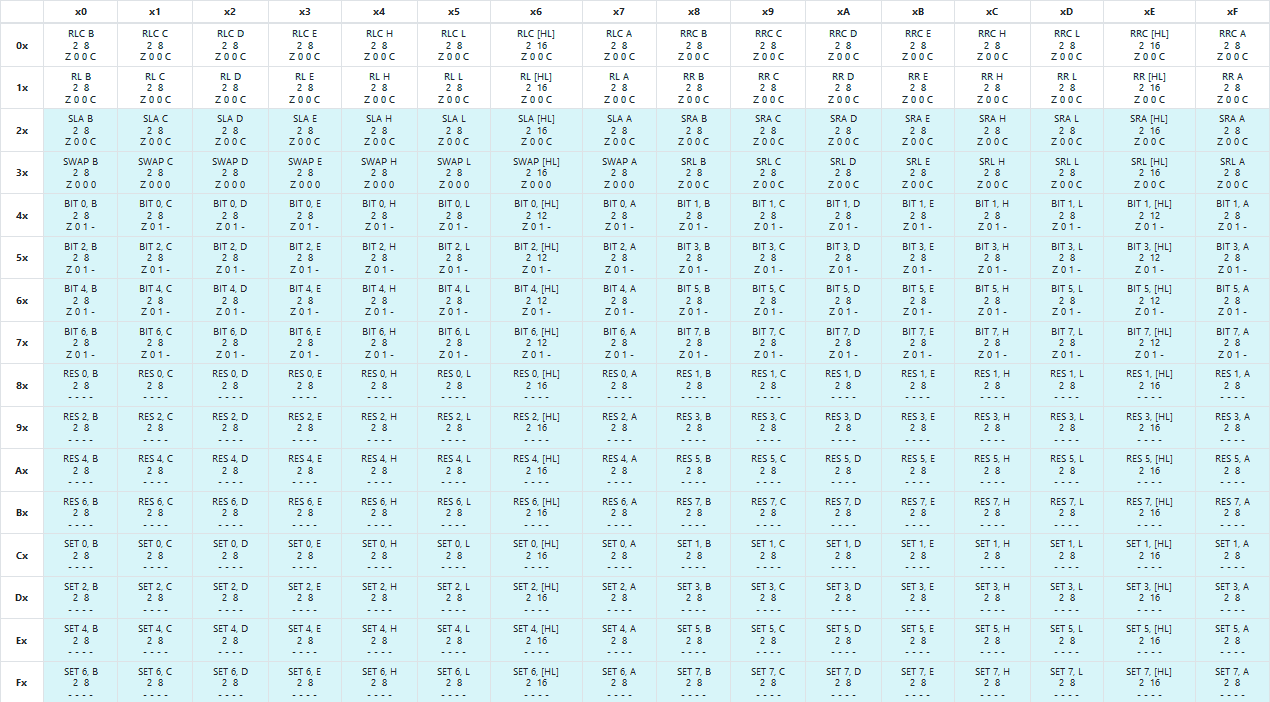
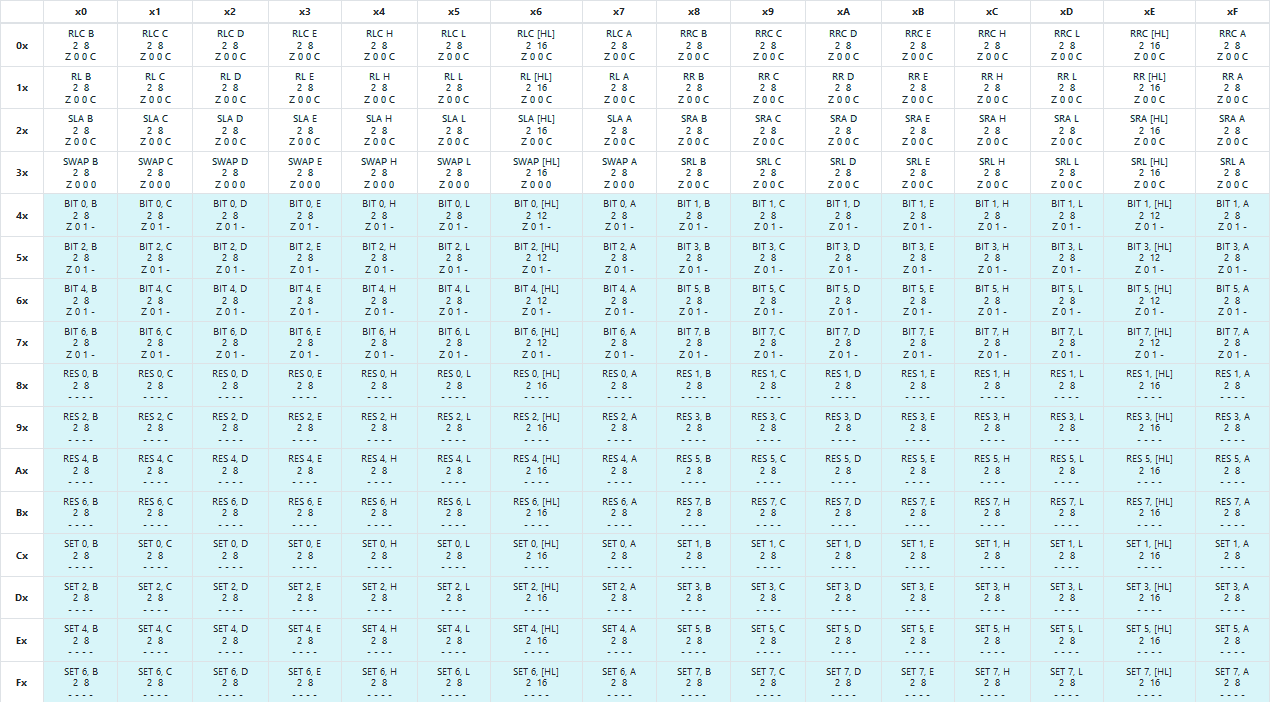
Implement prefixed instructions SLA r8; SRA r8; SWAP r8; SRL r8; update descriptions for rotate instructions

Changed region(s): [[0.0307, 0.1496, 1.0, 0.2991]]

diff --git a/src/gb/cpu/instructions.rs b/src/gb/cpu/instructions.rs
@@ -170,6 +170,14 @@ lazy_static!{
 		Instruction::new(vec![0x10, 0x11, 0x12, 0x13, 0x14, 0x15, 0x16, 0x17], 8, "RL r8", RL_RR_R8),
 		Instruction::new(vec![0x18, 0x19, 0x1A, 0x1B, 0x1C, 0x1D, 0x1E, 0x1F], 8, "RR r8", RL_RR_R8),
 
+		Instruction::new(vec![0x20, 0x21, 0x22, 0x23, 0x24, 0x25, 0x26, 0x27], 8, "SLA r8", SLA_SRA_R8),
+		Instruction::new(vec![0x28, 0x29, 0x2A, 0x2B, 0x2C, 0x2D, 0x2E, 0x2F], 8, "SRA r8", SLA_SRA_R8),
+
+		Instruction::new(vec![0x30, 0x31, 0x32, 0x33, 0x34, 0x35, 0x36, 0x37], 8, "SWAP r8", SWAP_R8),
+		Instruction::new(vec![0x38, 0x39, 0x3A, 0x3B, 0x3C, 0x3D, 0x3E, 0x3F], 8, "SRL r8", SRL_R8),
+
+
+
 	];
 
 }
@@ -1215,7 +1223,7 @@ fn ADD_HL_R16(cpu: &mut CPU, opcode: u8, cycles: &mut u16) {
 
 MNEMONIC: RLCA, RRCA
 OPCODES: 0x07, 0x0F
-DESC: Shifts the A register to the left. The carry bit is set to the shifted out bit
+DESC: Rotates the A register to the left / right. The carry bit is set to the shifted out bit
 FLAGS: 0 0 0 C
 
 */
@@ -1247,7 +1255,7 @@ fn RLCA_RRCA(cpu: &mut CPU, opcode: u8, cycles: &mut u16) {
 
 MNEMONIC: RLA, RRA
 OPCODES: 0x17, 0x1F
-DESC: Shifts the A register to the left / right. Wraps around to the carry bit, then carry bit is set to the shifted out bit.
+DESC: Rotates the A register to the left / right. Wraps around to the carry bit, then carry bit is set to the shifted out bit.
 FLAGS: 0 0 0 C
 
 */
@@ -1323,6 +1331,7 @@ fn RLC_RRC_R8(cpu: &mut CPU, opcode: u8, cycles: &mut u16) {
 
 	cpu.registers.set_8bit_reg(Register8Bit::F, 0);
 	cpu.registers.set_flag(Flag::C, carry);
+	cpu.registers.set_flag(Flag::Z, new_value == 0);
 
 	cpu.pc += 1;
 }
@@ -1369,4 +1378,103 @@ fn RL_RR_R8(cpu: &mut CPU, opcode: u8, cycles: &mut u16) {
 
 	cpu.pc += 1;
 
+}
+
+/*
+
+MNEMONIC: SLA r8 / SRA r8
+OPCODES: 0x2(0-7) / 0x2(8-F)
+DESC: Shifts left / right into the carry flag
+FLAGS: Z 0 0 C
+
+*/
+fn SLA_SRA_R8(cpu: &mut CPU, opcode: u8, cycles: &mut u16) {
+
+	let (new_value, carry): (u8, bool);
+
+	let r8 = Register8Bit::from_r8(opcode & 0x7);
+
+	let old_value = cpu.get_8bit_reg(r8);
+
+	if r8 == Register8Bit::HL {
+		*cycles = 16;
+	}
+
+	if opcode >> 3 == 1 {
+		// RRC
+		(new_value, _) = cpu.registers.get_8bit_reg(r8).overflowing_shr(1);
+		carry = (old_value & 0x80) >> 7 == 1;
+	} else {
+		//RLC
+		(new_value, _) = cpu.registers.get_8bit_reg(r8).overflowing_shl(1);
+		carry = old_value & 1 == 1;
+	}
+
+	//? Arithmetic shifts preserve the sign bit (bit 7) (https://open4tech.com/wp-content/uploads/2016/11/Arithmetic_Shift.jpg)
+	cpu.registers.set_8bit_reg(Register8Bit::A, new_value | (old_value & 0x80));
+
+	cpu.registers.set_8bit_reg(Register8Bit::F, 0);
+	cpu.registers.set_flag(Flag::C, carry);
+	cpu.registers.set_flag(Flag::Z, new_value == 0);
+
+	cpu.pc += 1;
+
+}
+
+/*
+
+MNEMONIC: SWAP r8
+OPCODES: 0x3(0-7)
+DESC: Swaps the lower four bits of r8 with the upper four
+FLAGS: Z 0 0 0
+
+*/
+fn SWAP_R8(cpu: &mut CPU, opcode: u8, cycles: &mut u16) {
+
+	let r8 = Register8Bit::from_r8(opcode & 0x7);
+	let old_value = cpu.get_8bit_reg(r8);
+
+	if r8 == Register8Bit::HL {
+		*cycles = 16;
+	}
+
+	let new_value = ((old_value & 0xF) << 0x4) | (old_value & 0xF0) >> 0x4;
+
+	cpu.set_8bit_reg(r8, new_value);
+
+	cpu.set_8bit_reg(Register8Bit::F, 0);
+	cpu.registers.set_flag(Flag::Z, new_value == 0);
+
+	cpu.pc += 1;
+}
+
+/*
+
+MNEMONIC: SRL r8
+OPCODES: 0x3(8-F)
+DESC: Logical shift r8 to the right
+FLAGS: Z 0 0 C
+
+*/
+fn SRL_R8(cpu: &mut CPU, opcode: u8, cycles: &mut u16) {
+	let (new_value, carry): (u8, bool);
+
+	let r8 = Register8Bit::from_r8(opcode & 0x7);
+
+	let old_value = cpu.get_8bit_reg(r8);
+
+	if r8 == Register8Bit::HL {
+		*cycles = 16;
+	}
+
+	(new_value, _) = cpu.registers.get_8bit_reg(r8).overflowing_shr(1);
+	carry = (old_value & 0x80) >> 7 == 1;
+
+	cpu.registers.set_8bit_reg(Register8Bit::A, new_value);
+
+	cpu.registers.set_8bit_reg(Register8Bit::F, 0);
+	cpu.registers.set_flag(Flag::C, carry);
+	cpu.registers.set_flag(Flag::Z, new_value == 0);
+
+	cpu.pc += 1;
 }
